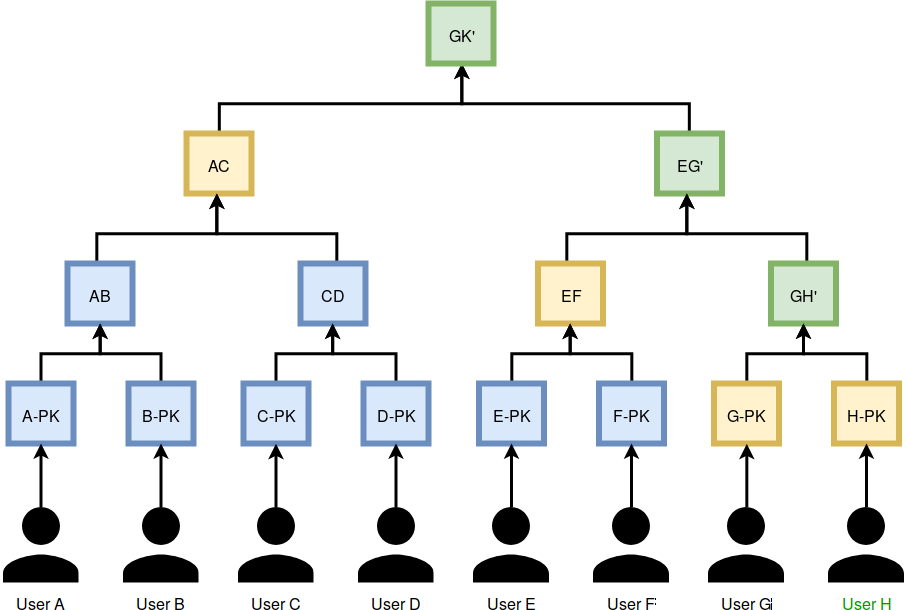
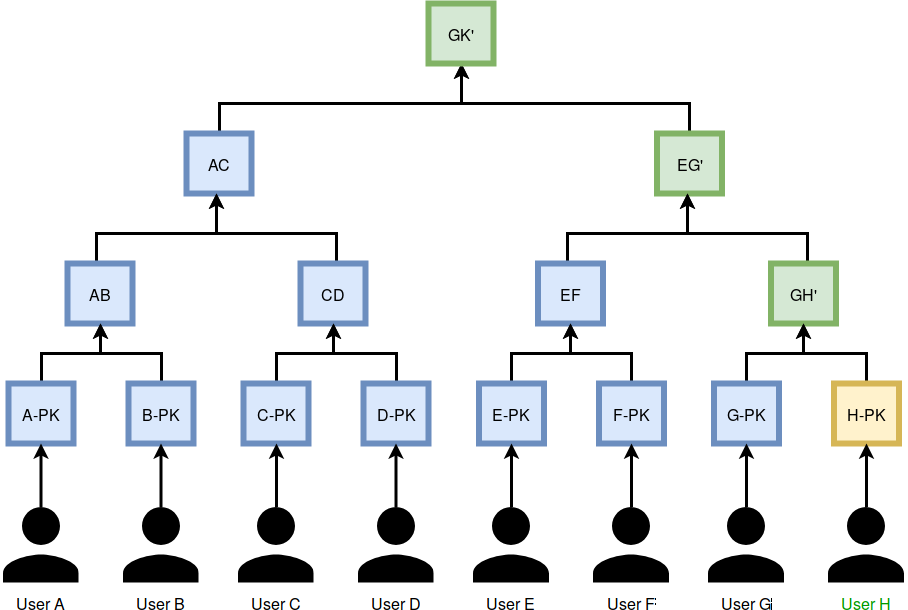
included one way functions and comparison with table

diff --git a/thesis/content/secureGroupCommunication.tex b/thesis/content/secureGroupCommunication.tex
@@ -17,7 +17,15 @@ How can we do better then this while still maintaining the same level of securit
 \section{Secure Group Communication}
 The most simple approach to this challange is to create a secret \textit{group key} (GK) each time multible devices need to access the same file. This schemes are called "Secure Group Communication". The main idea is to reduce the number of filekeys by encrypting all the files with a unique GK that is only known to the members in the share. Very simple approaches use a so called "Key Distribution Center" KDC to distribute the group keys to each member. However, while Bdrive could manage backward and forward secrecy quite easily, this schemes suffer from additional rekeying overhead if the number of members change. 
 
+% Mutlicast in group communications
 Often Secure Group Communications are mentioned together with \textit{multicat messages}. The idea is that on \textit{unicast} a central authority is required that manages authentication and authorization to decide which entity should access which content. With multicast messsages content is distributed to each entity regardless if this entity is authorized to view the content. Authorization is handled via encryption of the content. If an entity owns the key to decrypt the data it is implizity authorized to view the content. Multicast messages are expecially handy in group communciations since we only need to send one message to distribute the information to all members.\todo[inline]{sources??, verify if this is true} 
+
+% The role of PKI in group communications
+While there are many approaches researching secure group communication and making the process more efficient of rekeying more efficient, we can reduce the number of schemes to thouse applicable to secure could storage. Here some prerequisits are given that are not generally assumed. Secure cloud storage system often deploy a public key infrastrcture (PKI) to bind identities to public keys of clients.
+
+Schemes that extend the 2-parties Diffie-Hellman (DH) key exchange to n-party scheme, such as in \textit{Steiner at. al., 1996}\cite{steiner1996diffie}, are not very adventurous in a PKI environment. The DH key exchange is designed for unsecured environments to create a unique communication key, known to every member in the group, but not known to a passive attacker. However, since we can assume that all communication is already disclosed and secured by the PKI we can elimate thouse schemes. They suffer from additional computation or message exchange overhead compared to schemes that assume an existing PKI.   
+
+In the following it will widly assumed that a client is identified uniquly by its public key, which is also known by the cloud server and can be queried by other clients. 
 
 \subsection{Group Key Management Protocol}
 The Group Key Management Protocol (GKMP)\cite{harney1997group} addresses this issue in a simple but more scalable way. If a device want to share files with a group it creates the group key and encrypts all filekeys with this group key. This GK needs to be securly distributed to all members which means that the data owner needs to download and store every public key of the group members and encrypt the GK for each of them. Further, the data owner needs to encrypt all shared filekeys symmetrically with the chosen group key. 
@@ -30,17 +38,62 @@ The big adventage of this scheme, compared to the scheme employed in Bdrive, is 
 \begin{figure*}[!ht]
 \centering
     \includegraphics[width=0.8\linewidth]{img/LKH.png}
-    \caption{Balanced binary LKH and \textbf{User H} joins or leaves the group. Node marked in yellow is newly added to the group. Node marked in green require an update.}
+    \caption{Balanced binary LKH and \textbf{User H} joins or leaves the group. Node marked in yellow is newly added to the group. Node marked in green require an update and need to be stored locally by the user.}
     \label{fig:lkh}
 \end{figure*}
 \todo[inline]{fix image placement}
 
 Logical Key Hirachy (LKH)\cite{wallner1999key} is a GKMP that reduces user side storage and rekey-tranmissions by organizing users keys in a tree hirachy and maximaly exploiting the use of multicast messaging. The whole tree is mainted by the KDC. In the litrature it is explicitly stated that this trees neither habe to be balanced nor binary, but for the sake of simplity excatly this is assumed. Users (and their respecitv public keys) are organized on the lealf if this tree. Each node is composed of a key that is encrypted respectivly with its children keys. This encrypted key is known to all leafts related to this node and can, on change of this node, be transmitted in one multicast transmission to all its leafs. The root node summarizes the GK. The GK is used in the same way as in GKMP to secure the group communication. 
 
-While in GKMP each user needs to store each members public key to eventually rekey the group, in LKH each user only needs to store $log(n) +1$ keys (path from leaf to root node). Beginning from the buttom each leaf node could decrypt the next parent node until it arrive at the root node. The other adventage is that many members share the same keys. So it is more efficient to transmit this keys in a multicast setting.  
+While in GKMP each user needs to store each members public key to eventually rekey the group, in LKH each user only needs to store $log(n) +1$ keys (path from leaf to root node). Beginning from the buttom each leaf node could decrypt the next parent node until it arrive at the root node. The other adventage is that many members share the same keys. So it is more efficient to transmit this keys in a multicast setting. LKH needs to do $2log(n)$ multicast transmissions and analogous $2log(n)$ encryptions on each member leave or join.  Here each updated key in the path from leaf to root node needs to be updated and encrypted two times: One time with the key of right children node and second with the key of the left children node. 
 
-In figure \ref{fig:lkh} user H recently joined the group which means, that to ensure backward secrecy, the keys in node GH, EG and GK must be updated. The key server will choose a new GH', EG' and GK' and encrypts and distributes them in a buttom up fashion starting by GH'. GH' is encrypted with user Gs and user Hs public key (G-PK, H-PK) and send to them. Next, user E and F receive in a multicast transmission EG', which is encrypted with EF and user G and H receive in a multicast transmission EG' which is now encrypted with the newly established GH' key. Finally, GK needs to be updated. GK' is encrypted with AC to multicast transmit it to the users A, B, C and D. And GK' is encrypted with EG' to transmit it in one message to user E, F, G and H. In a similar way the keys would be updated if User H would be removed from the group to ensure forward secrecy.   
+In figure \ref{fig:lkh} user H recently joined the group which means, that to ensure backward secrecy, the keys in node $GH$, $EG$ and $GK$ must be updated. The key server will choose a new $GH'$, $EG'$ and $GK'$ and encrypts and distributes them in a buttom up fashion starting by $GH'$. $GH'$ is encrypted with user Gs and user Hs public key (G-PK, H-PK) and send to them. Next, user E and F receive in a multicast transmission $EG'$, which is encrypted with EF and user G and H receive in a multicast transmission $EG'$ which is now encrypted with the newly established $GH'$ key. Finally, GK needs to be updated. $GK'$ is encrypted with AC to multicast transmit it to the users A, B, C and D. And $GK'$ is encrypted with $EG'$ to transmit it in one message to user E, F, G and H. In a similar way the keys would be updated if User H would be removed from the group to ensure forward secrecy.   
 
 
-\subsection{One-way function trees}  
+\subsection{One-way function trees}
+To reduce the transmission and encryption overhead of $2log(n)$ to even further to $log(n)$ other schemes use pheudorandom functions \cite{canetti1999multicast} or one-way functions \cite{sherman2003key} to compute the required keys in the path. This schemes are strongly related to merkel trees, since each update of the user set, will force an update of the root node, the group key.
 
+Each user stores a blinded key for each siblings node in the path to the root node. Starting from the individual key, a user can compute the blinded version of his key. To compute the next parent key, a user uses his blinded key, together with the siblings blinded key, which is feeded into a one way function to create the key for the parent node. This node needs to be blinded to serve as the input for the next level. In such way the user can compute the needed keys up to the GK. 
+
+Lets assume user H joined the group in figure \ref{fig:lkh} and given a crypographically secure hash function $h$. First, user H needs to receive the blinded keys, $h(AC)$, $h(EF)$ and $h(G-PK)$ which he stores locally in addition to his own public key $H-PK$. One-way function trees has the same storage overhead as LKH with $log(n) + 1$.  As already known from LKH, we need to update $GH$, $EG$ and $GK$. This nodes are computed from their children blinded values using a merging function $m$ which takes two inputs and procues one output. This could for example be the concatination of both inputs and then applying $h$ to receive a fixed length output value. Starting from the button,  $GH'$ is computed as $m(f(G-PK), f(G-PK))$, analogous $EG' = m(f(EF), f(GH'))$ and finally the updated group key $GK' = m(f(AG), f(EG')$. The new blinded keys are distributed to their respective users using multicast transmissiong, reducing the transmission and encryption overhead to $log(n)$
+
+
+\subsection{Comparison}
+\todo[inline]{find better title}
+The following table will compare the discussed schemes against each other regarding number of keys, messages, and ecnryptions on inizialisation of the group, when a member joins or leaves and on addition of a new file. 
+
+It is assumped that clients already downloaded the public keys of their desired group members. Backward and forward secrecy need to be ensured every time a member leaves or joins the group. 
+
+\begin{table*}[!ht]
+\centering
+\begin{tabular}{l 		| l 						| l 							| l 						| l 						| l }
+ 						& \textbf{Bdrive}			& \textbf{GKMP}					& \textbf{LKH}				& \textbf{OWFT} 			& \textbf{GDH.1}\\
+\hline
+\textbf{inizial share} 																																		\\
+keys 					& $nf$	 					& $1$  							& $n-1$  					& $n$	 					& $1$ 			\\
+messages (unicast)		& $nf$	  					& $n$ 							& $n(log_2(n) + 1)$ 		& $2n(log_2(n) + 1)$		& $2(n - 1)$	\\
+messages (multicast) 	& $nf$	 					& $n$ 							& $log_2(n) + 1$ 			& $n - 2$ 					& $2(n - 1)$ 	\\
+encryptions				& $nf$	 					& $f + n$ 						& $f + n -1$				& $f + n -1$				& $f + n$		\\
+\hline
+\textbf{member join} 																																		\\
+keys 					& $f$   					& $1$  							& $3 log_2(n)$				& $log_2(n)$				& $1$			\\
+messages (unicast)		& $f$  						& $n$			 				& $2(n - 1)$				& $1$  						& $2(n - 1)$	\\
+messages (multicast) 	& $f$ 	 					& $2$ 		 					& $2 log_2(n)$				& $log_2(n)$				& $2(n - 1)$	\\
+encryptions				& $f$  						& $f + 2$		 				& $f + 2(log_2(n))$ 		& $f + log_2(n)$			& $f + 2$	 	\\
+\hline
+\textbf{member leave}																																		\\
+keys 					& $0$						& $1$			  				& $3 log_2(n)$				& $log_2(n)$				& $1$			\\
+messages (unicast)		& $0$						& $n$			 				& $2(n - 1)$ 				& $0$	  					& $2(n-1)$		\\
+messages (multicast)	& $0$						& $n$			 				& $2 log_2(n)$				& $log_2(n)$				& $2(n-1)$		\\ 
+encryptions 			& $0$						& $f + n$ 						& $f + 2 (log_2(n))$ 		& $f + log_2(n)$	 		& $f+n$			\\
+\hline	
+\textbf{addition of file}																																	\\
+keys 					& $n$		 				& $0$							& $0$	 					& $0$		 				& $0$			\\
+messages (unicast)		& $n$		 				& $0$	 						& $0$ 						& $0$		 				& $0$			\\
+messages (multicast)	& $n$ 						& $0$ 							& $0$ 						& $0$	 					& $0$			\\
+encryptions				& $n$ 						& $1$ 							& $1$ 						& $1$		 				& $1$			\\
+\hline
+\end{tabular}
+\caption{Comparison of secure group communication schemes. $n$ donates the number of members, $f$ the number of file keys. Forward and backward secrecy is ensured in each scheme.}
+
+\end{table*}
